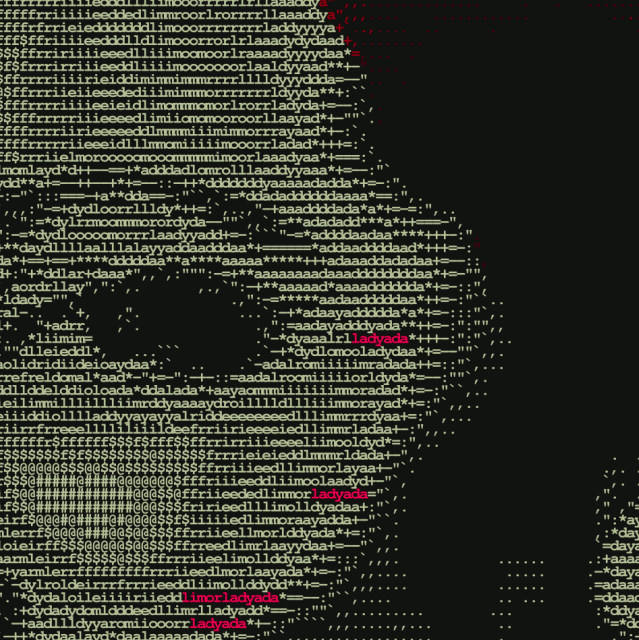
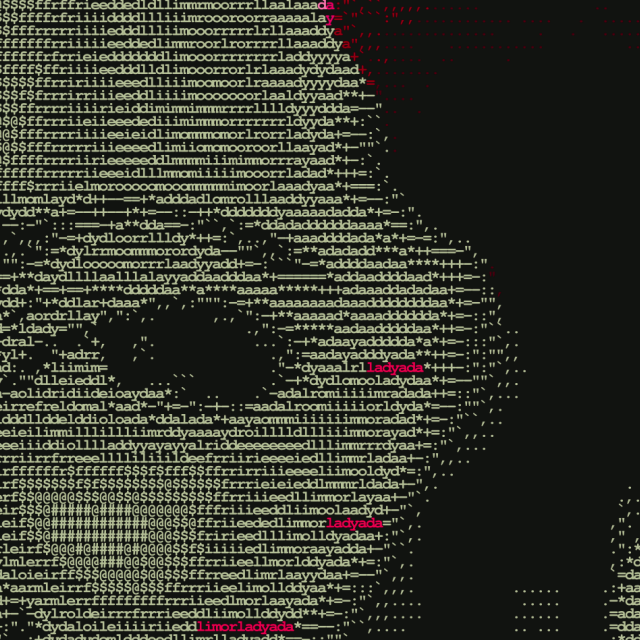
feat: add stdout output

diff --git a/src/kee/kee.py b/src/kee/kee.py
@@ -97,6 +97,11 @@ def rgb2hex(rgb):
     ]
 
 
+def hex2rgb(_hex):
+    _hex = _hex.removeprefix("#")
+    return tuple(int(_hex[i : i + 2], 16) for i in (0, 2, 4))
+
+
 def build_palette(color_array, n_colors, value_offset):
     """
     Return palette in descending order of frequency
@@ -262,6 +267,30 @@ def write_header(g, header_text, header_font_size, foreground_color):
     g.append(header)
 
 
+def print_art(text_layers, color_layers, background_color):
+    if len(color_layers) == 1:
+        print("".join(text_layers[0]))
+        return
+    depth = len(text_layers)
+    fg_pattern = "\x1b[38;2;{0};{1};{2}m"
+    bg_pattern = "\x1b[48;2;{0};{1};{2}m"
+    rgb_layers = [fg_pattern.format(*hex2rgb(_hex)) for _hex in color_layers]
+    prev_color_idx = -1
+    print(bg_pattern.format(*hex2rgb(background_color)), end="")
+    for i in range(len(text_layers[0])):
+        for d in range(depth):
+            cell = text_layers[d][i]
+            if cell != " ":
+                if prev_color_idx == d:
+                    print(cell, end="")
+                else:
+                    print(rgb_layers[d] + cell, end="")
+                    prev_color_idx = d
+                break
+        else:
+            print(" ", end="")
+
+
 def kee(
     image_name,
     columns,
@@ -289,17 +318,11 @@ def kee(
     if invert_palette:
         palette = palette[::-1]
 
-    if output is None:
-        output = path.splitext(image_name)[0] + ".pdf"
-
-    if not output.endswith(".svg"):
+    if output is not None and not output.endswith(".svg"):
         tf = tempfile.NamedTemporaryFile(suffix=".svg")
         svg_output = tf.name
     else:
         svg_output = output
-
-    width_mm, height_mm = PAPER_SIZES[paper_size]
-    width, height = DPI * mm2in(width_mm), DPI * mm2in(height_mm)
 
     ascii_art, img = build_ascii_art(
         image_name, columns, palette, black_threshold, white_threshold, character_ratio
@@ -315,6 +338,13 @@ def kee(
         colors_offset,
         img,
     )
+
+    if output is None:
+        print_art(text_layers, color_layers, background_color)
+        return
+
+    width_mm, height_mm = PAPER_SIZES[paper_size]
+    width, height = DPI * mm2in(width_mm), DPI * mm2in(height_mm)
 
     svg, g = blank_svg(width_mm, height_mm, width, height, background_color)
 
